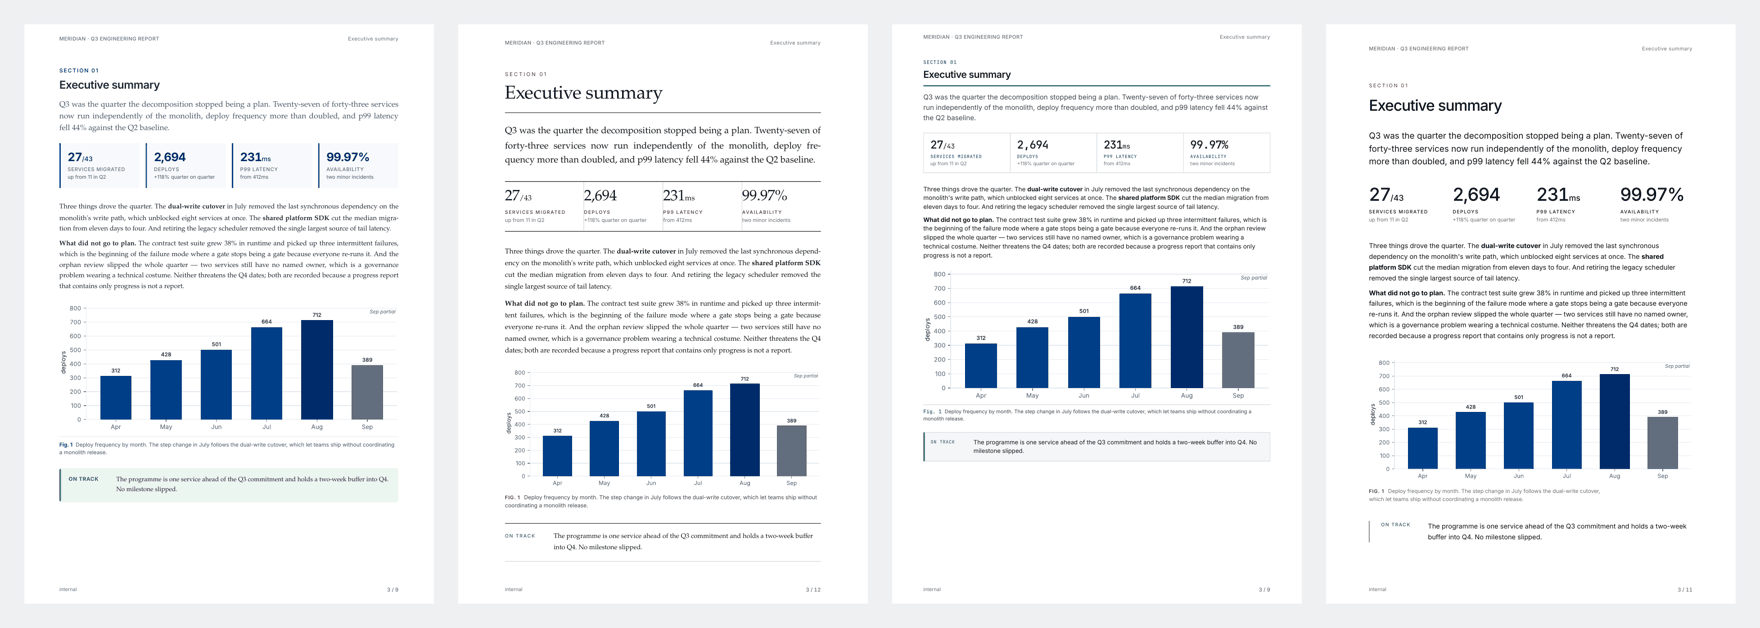
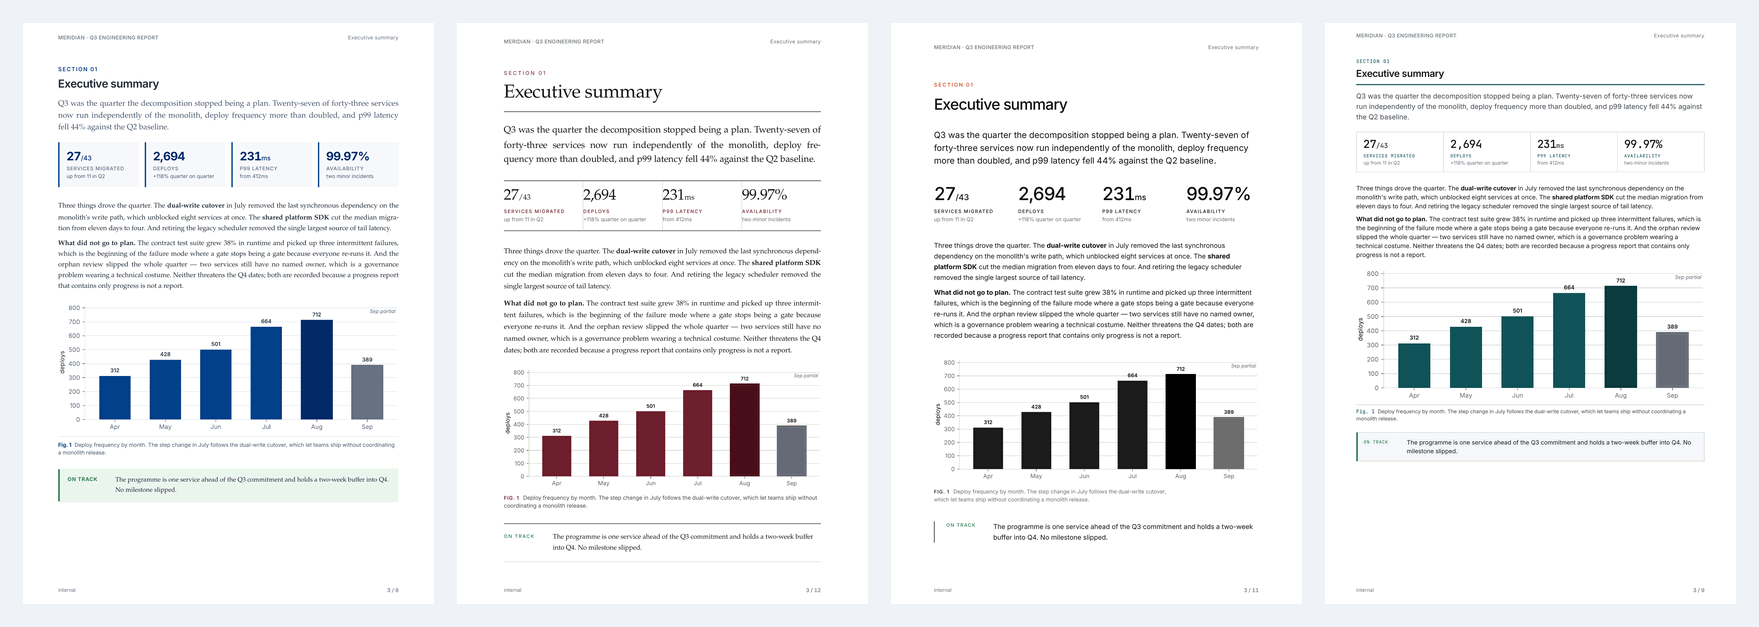
fix(gallery): the theme strips showed one palette four times
Reported from the README itself: "here you say there are 4 different versions,
but I don't see much difference in the lower row, they all almost look same."
Correct, and the caption underneath was making a claim the image disproved.

Both theme strips were shot by injecting a different stylesheet into an
already-rendered document. That restyles the type and leaves the figures alone,
so every panel carried the palette of whichever direction the example happened
to be built in last: four typographic systems under four identical blue charts,
directly beneath "charts that re-palette to match". They do re-palette —
`report` navy, `editorial` oxblood, `minimal` near-black, `technical` teal —
because `folio build` runs `charts.py` with FOLIO_THEME set. Restyling never
calls it.

The covers were worse. `editorial` wore `report`'s plate, and `technical` and
`minimal`, which doctrine gives no cover image at all, showed a sliver of that
plate inside a 6mm bar and a 3mm rule. Whether a cover takes a plate is a
property of the direction, so the shot now decides it per theme.

`shoot.py` builds the example four times instead. It also stopped assuming page
numbers are unpadded: the same document sets to 9 pages in `report` and 12 in
`editorial`, so page 3 is `p-3.png` in one and `p-03.png` in the other, and the
strip had been shooting whichever it found. The caption now names the four
palettes, so a reader knows what they are looking for.

diff --git a/docs/gallery/shoot.py b/docs/gallery/shoot.py
@@ -15,11 +15,17 @@ of straight RGB. The gallery ships whole in the sdist, so the sizes matter.
 
 from __future__ import annotations
 
+import re
+import shutil
 import subprocess
 import sys
+import tempfile
 from pathlib import Path
 
 from PIL import Image
+
+from folio.assets import theme_names
+from folio.build import retheme
 
 ROOT = Path(__file__).resolve().parents[2]
 OUT = Path(__file__).resolve().parent
@@ -37,6 +43,62 @@ def pages(example: str) -> Path:
         stdout=subprocess.DEVNULL,
     )
     return src.parent / "document.pages"
+
+
+def themed_pages(example: str, theme: str) -> Path:
+    """Build one example in one direction — charts included — and return its pages.
+
+    The theme strips used to be shot by injecting a different stylesheet into
+    an already-rendered document. That changes the type and leaves the figures
+    alone, so all four panels carried the palette of whichever theme the
+    example was last built in: four typographic systems under four identical
+    blue charts, directly beneath a caption promising the charts re-palette.
+    They do. The shot did not.
+
+    Building a real copy per theme is what makes the claim true, because
+    `folio build` runs `charts.py` with FOLIO_THEME set.
+    """
+    src = ROOT / "examples" / example
+    work = Path(tempfile.mkdtemp(prefix=f"folio-shoot-{theme}-")) / example
+    shutil.copytree(
+        src,
+        work,
+        ignore=shutil.ignore_patterns("charts", "*.pdf", "*.page.html", "*.pages"),
+    )
+    doc = work / "document.html"
+    html = retheme(doc.read_text(encoding="utf-8"), theme)
+    # Whether a cover takes a plate is a property of the direction, not of the
+    # document: `report` and `editorial` have a band deep enough to hold one,
+    # and doctrine gives `technical` and `minimal` none — one exists to fit
+    # more on the page, the other is built on having nothing to hide behind.
+    # Restyling alone left the report's plate on all four, which put a sliver
+    # of it in a 3mm rule.
+    plate = {"report": "art/cover-report.jpg", "editorial": "art/cover-editorial.jpg"}.get(theme)
+    if plate:
+        html = re.sub(r'(<img class="cover-plate" src=")[^"]+(")', rf"\1{plate}\2", html)
+    else:
+        html = re.sub(r'<img class="cover-plate"[^>]*>\s*', "", html)
+    doc.write_text(html, encoding="utf-8")
+    subprocess.run([sys.executable, "-m", "folio", "build", str(doc), "-q"], check=True)
+    subprocess.run(
+        [sys.executable, "-m", "folio", "preview", str(doc.with_suffix(".pdf")), "--dpi", str(DPI)],
+        check=True,
+        stdout=subprocess.DEVNULL,
+    )
+    return work / "document.pages"
+
+
+def page(pages_dir: Path, n: int) -> Path:
+    """The nth page, whatever the padding.
+
+    `folio preview` pads the number to the width of the page count, so page 3
+    is `p-3.png` in a nine-page document and `p-03.png` in a twelve-page one —
+    and the same example paginates differently in each direction.
+    """
+    for name in (f"p-{n}.png", f"p-{n:02d}.png", f"p-{n:03d}.png"):
+        if (pages_dir / name).exists():
+            return pages_dir / name
+    raise FileNotFoundError(f"{pages_dir} has no page {n}")
 
 
 def scaled(path: Path, width: int) -> Image.Image:
@@ -87,16 +149,16 @@ if __name__ == "__main__":
     grid(
         [
             [
-                exhibition / "p-1.png",
-                survey / "p-1.png",
-                lookbook / "p-2.png",
-                architecture / "p-1.png",
+                page(exhibition, 1),
+                page(survey, 1),
+                page(lookbook, 2),
+                page(architecture, 1),
             ],
             [
-                programme / "p-1.png",
-                menu / "p-1.png",
-                case_study / "p-1.png",
-                runbook / "p-1.png",
+                page(programme, 1),
+                page(menu, 1),
+                page(case_study, 1),
+                page(runbook, 1),
             ],
         ],
         OUT / "documents.png",
@@ -104,10 +166,27 @@ if __name__ == "__main__":
         margin=23,
     )
 
+    # One document, four directions, built four times rather than restyled
+    # once — see themed_pages. The cover strip and the interior strip are the
+    # same four builds, so the charts in the second are the real thing.
+    themed = {t: themed_pages("quarterly-report", t) for t in theme_names()}
+    strip(
+        [page(themed[t], 1) for t in theme_names()],
+        OUT / "themes-covers.png",
+        width=411,
+        margin=23,
+    )
+    strip(
+        [page(themed[t], 3) for t in theme_names()],
+        OUT / "themes-pages.png",
+        width=411,
+        margin=23,
+    )
+
     # Two interiors, large enough to read. The pages carrying the most
     # components, from the two directions furthest apart.
     strip(
-        [survey / "p-3.png", runbook / "p-1.png"],
+        [page(survey, 3), page(runbook, 1)],
         OUT / "interiors.png",
         width=799,
         margin=54,

diff --git a/CHANGELOG.md b/CHANGELOG.md
@@ -6,6 +6,26 @@ versions follow [SemVer](https://semver.org/spec/v2.0.0.html).
 
 ## [Unreleased]
 
+### Fixed — the theme gallery showed one palette four times
+The two theme strips were shot by injecting a different stylesheet into an
+already-rendered document. That restyles the type and leaves the figures alone,
+so all four panels carried the palette of whichever direction the example was
+last built in: four typographic systems under four identical blue charts,
+directly beneath a caption promising that charts re-palette to match. They do —
+`report` navy, `editorial` oxblood, `minimal` near-black, `technical` teal. The
+shot did not.
+
+Worse on the covers: `editorial` wore `report`'s plate, and `technical` and
+`minimal` — which doctrine gives no cover image at all — showed a sliver of it
+inside a 6mm bar and a 3mm rule.
+
+`docs/gallery/shoot.py` now builds the example four times rather than restyling
+it once, because `folio build` is what runs `charts.py` with FOLIO_THEME set,
+and it makes the plate a property of the direction. It also stopped assuming
+page numbers are unpadded: the same document is 9 pages in `report` and 12 in
+`editorial`, so page 3 is `p-3.png` in one and `p-03.png` in the other, and the
+strip had been silently shooting whatever it found.
+
 ### Fixed — `.cols` reserved space it never filled
 A flex item's automatic minimum size is content-based, and with a raster inside
 one WeasyPrint resolves it from the image's **intrinsic pixels** rather than

diff --git a/README.md b/README.md
@@ -29,9 +29,10 @@ case study and an operations runbook. Every page is a real build from
 
 <img src="docs/gallery/themes-pages.png" width="100%" alt="The same interior page in four design directions, charts re-paletted to match">
 
-*One document, four design directions. Same content, same markup —
-different typographic systems, and charts that re-palette to match.
-Two of the four take a cover image; the other two are built not to.*
+*One document, four design directions — same content, same markup. The type
+changes, fills give way to rules, and the charts re-palette with them: navy,
+oxblood, near-black, teal. Two of the four take a cover image; the other two
+are built not to.*
 
 </div>
 
